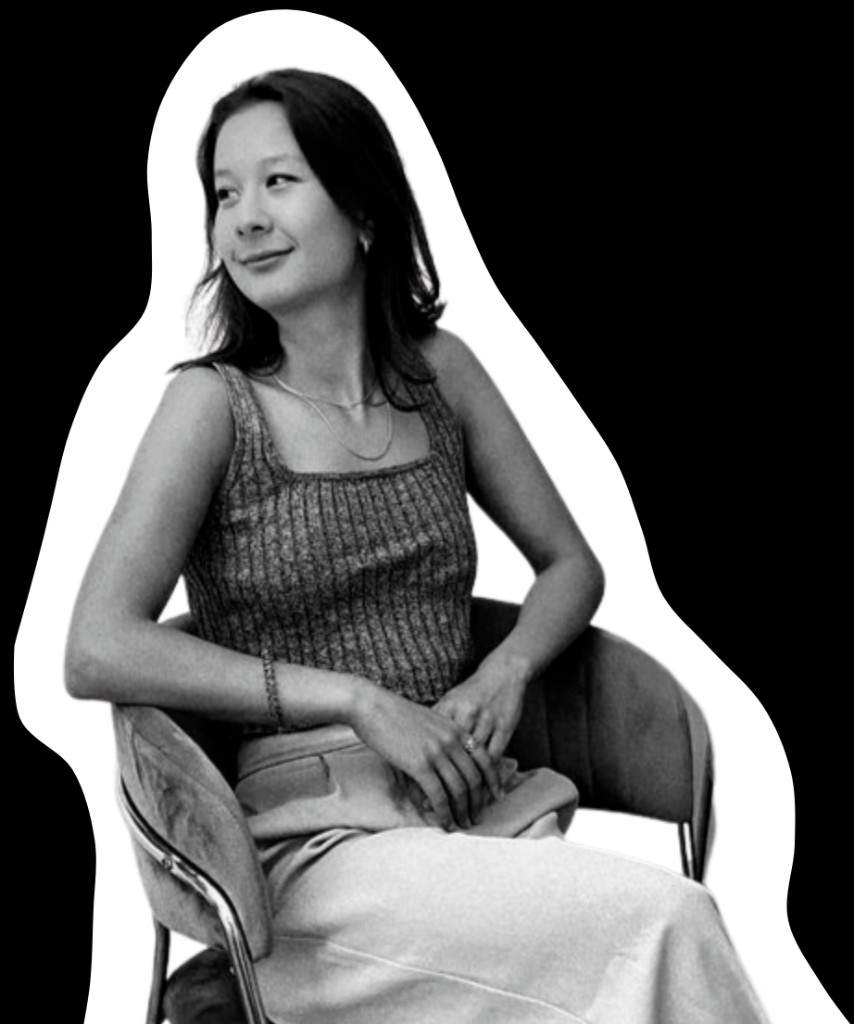
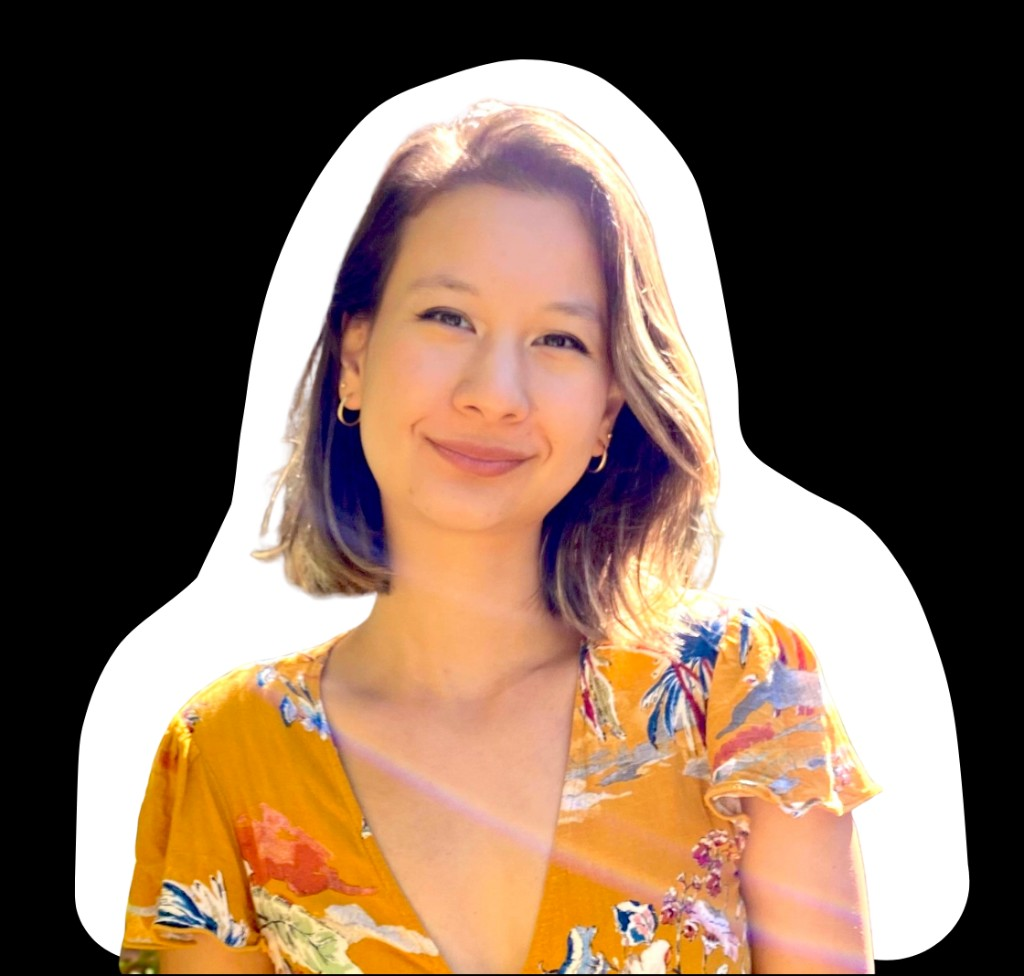
Update hero portrait, contact email, and copy
- Swap hero portrait for the new colour headshot, scaled to 250% with
  a small leftward nudge so it composes nicely against the headline
- Update contact email everywhere to [email redacted]
- Tighten copy and tweak engagement strip

diff --git a/pluginentrepreneur-app/app/components/Contact.tsx b/pluginentrepreneur-app/app/components/Contact.tsx
@@ -31,10 +31,10 @@ export default function Contact() {
 
               <div className="mt-10 flex flex-wrap items-center gap-4">
                 <a
-                  href="mailto:[email redacted]"
+                  href="mailto:[email redacted]"
                   className="group inline-flex items-center gap-3 rounded-full bg-background text-foreground px-6 py-4 text-base font-medium transition-colors hover:bg-accent hover:text-background"
                 >
-                  <span>[email redacted]</span>
+                  <span>[email redacted]</span>
                   <ArrowRight className="h-4 w-4 transition-transform group-hover:translate-x-0.5" />
                 </a>
                 <a

diff --git a/pluginentrepreneur-app/app/components/Footer.tsx b/pluginentrepreneur-app/app/components/Footer.tsx
@@ -31,10 +31,10 @@ export default function Footer() {
 
         <div className="flex flex-wrap items-center gap-6">
           <a
-            href="mailto:[email redacted]"
+            href="mailto:[email redacted]"
             className="link-under hover:text-foreground"
           >
-            [email redacted]
+            [email redacted]
           </a>
           <a
             href="https://www.linkedin.com/in/vhp/"

diff --git a/pluginentrepreneur-app/app/components/Hero.tsx b/pluginentrepreneur-app/app/components/Hero.tsx
@@ -129,9 +129,9 @@ function PortraitPanel() {
       </div>
 
       <div className="pointer-events-none absolute inset-0 flex items-end justify-center">
-        <div className="relative w-[105%] translate-x-2 translate-y-5 aspect-[878/1055]">
+        <div className="relative w-[250%] -translate-x-4 aspect-[560/489]">
           <Image
-            src="/victoria-cropped.png"
+            src="/victoria-hero-v2.png"
             alt="Victoria, Plug In Entrepreneur"
             fill
             priority